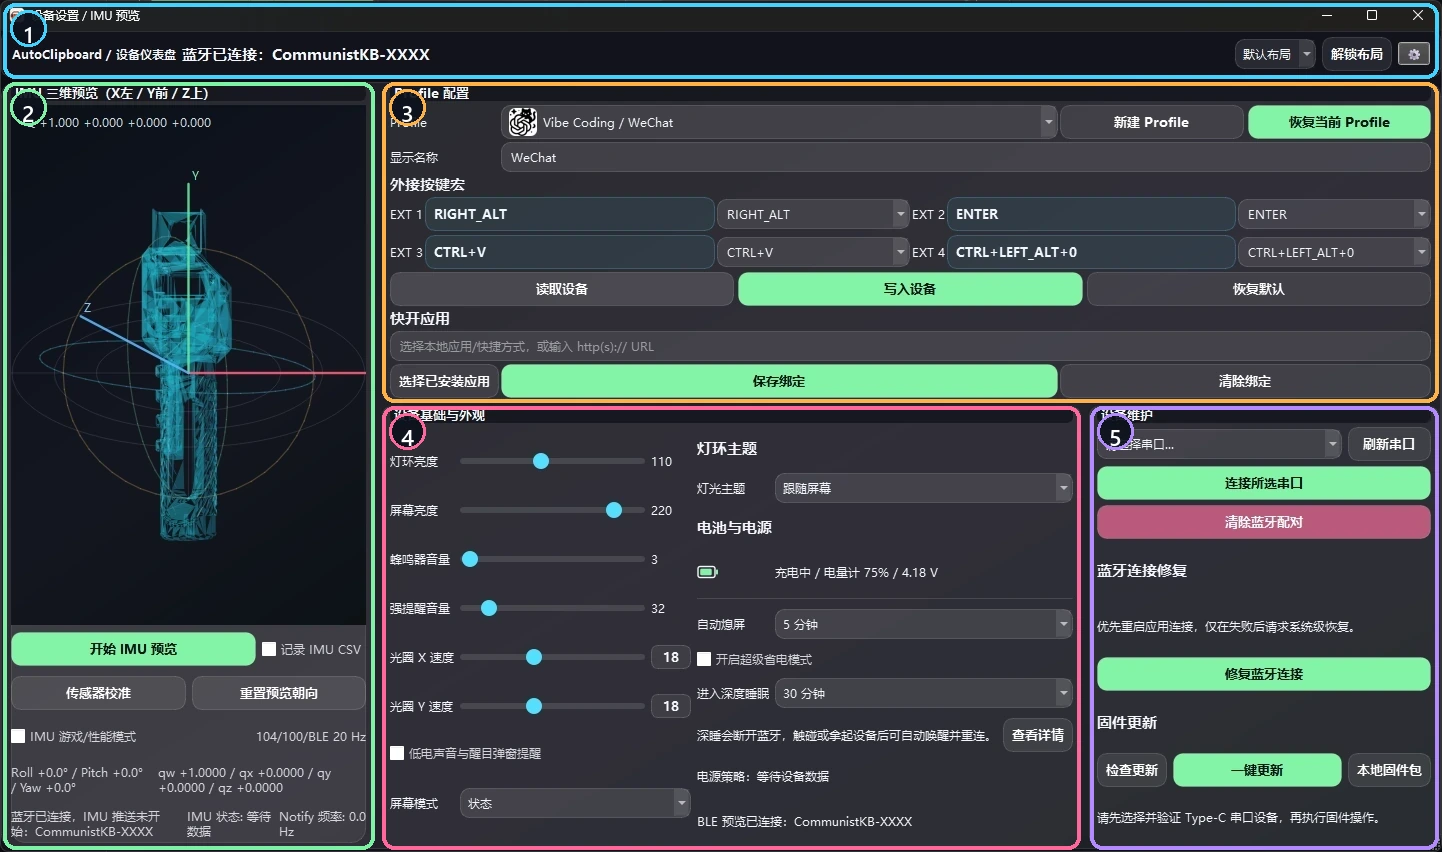
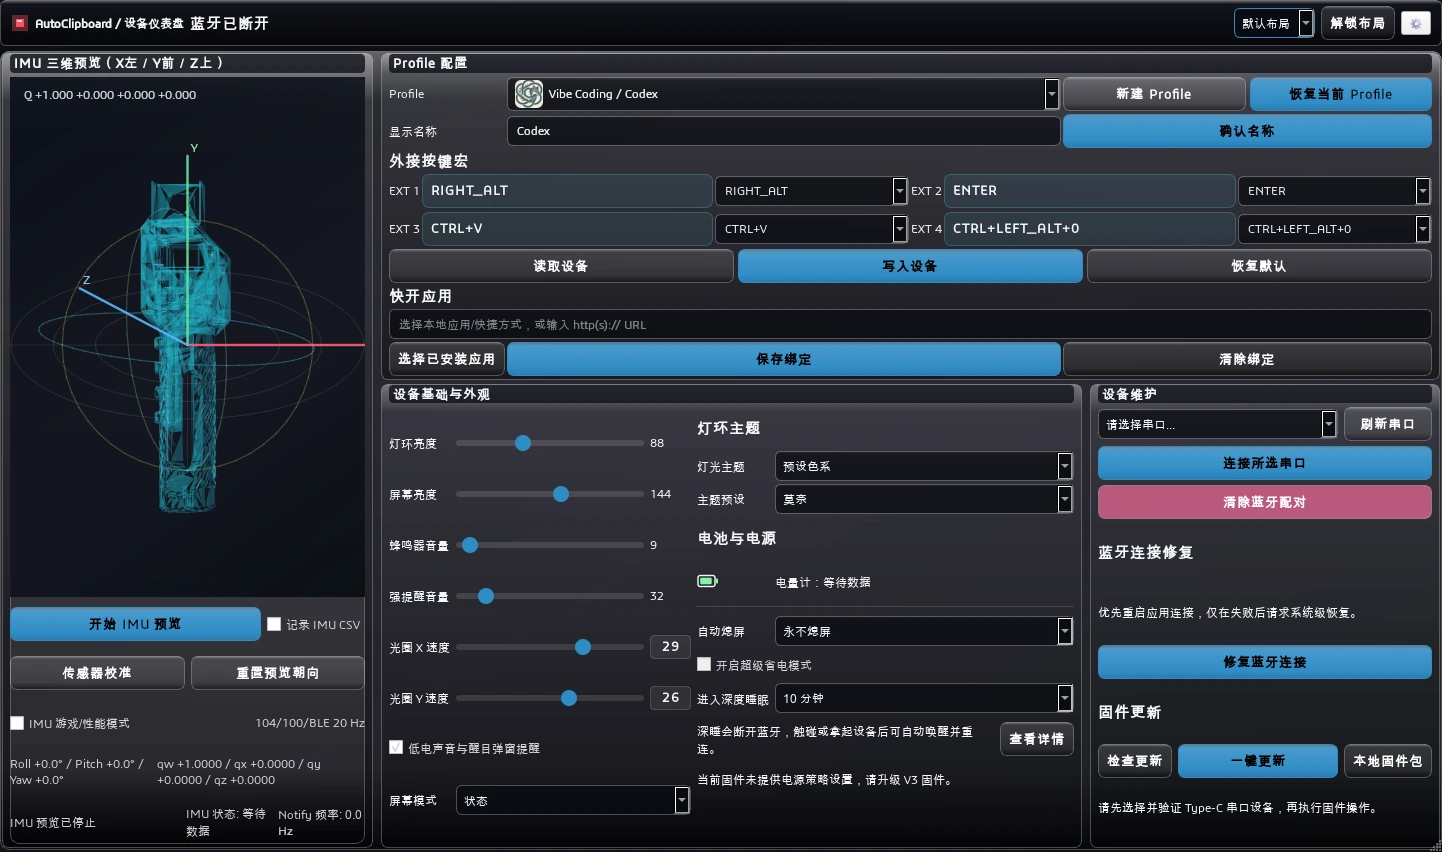
docs(shop): refresh AutoClipboard interface

diff --git a/shop.html b/shop.html
@@ -173,9 +173,9 @@
 
     <section class="shop-package-section" id="package" aria-labelledby="package-title">
       <figure class="shop-software-window" data-pixel-reveal>
-        <div class="shop-window-bar"><span>AUTOCLIPBOARD_SETTINGS.EXE</span><i></i><i></i><i></i></div>
-        <img src="assets/images/software-settings.webp" alt="带编号说明的 AutoClipboard 设备设置和个性化配置界面" width="1442" height="852" loading="lazy">
-        <figcaption>SOFTWARE INCLUDED // 设备、按键、语音与 Agent Hook 配置</figcaption>
+        <div class="shop-window-bar"><span>AUTOCLIPBOARD_0.3.67.EXE</span><i></i><i></i><i></i></div>
+        <img src="assets/images/software-settings.webp" alt="AutoClipboard 0.3.67 设备仪表盘、Profile、宏按键、IMU 与固件维护界面" width="1442" height="852" loading="lazy">
+        <figcaption>SOFTWARE INCLUDED // 0.3.67 设备仪表盘、Profile、宏按键、IMU 与固件维护</figcaption>
       </figure>
       <div class="shop-package-copy" data-pixel-reveal>
         <p class="shop-pixel-label"><span>FULL LOADOUT</span> WHAT YOU GET</p>
